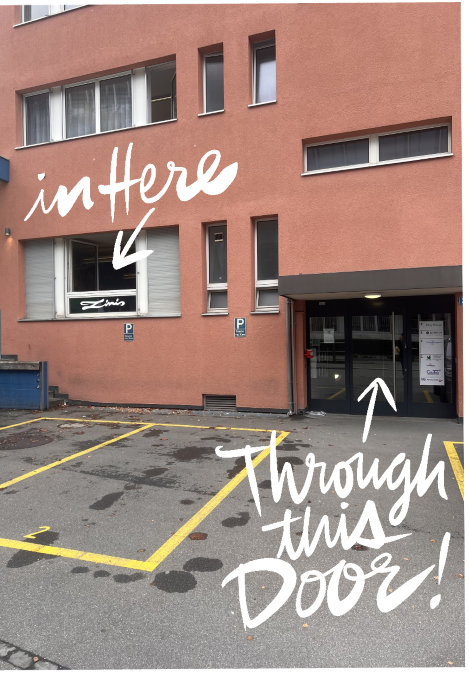
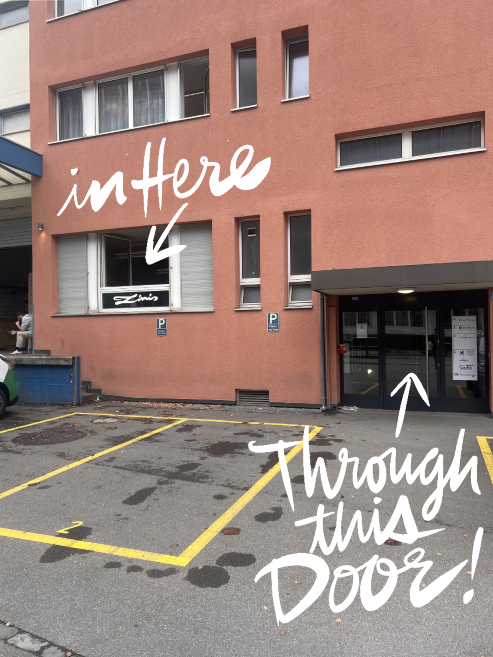
where mobile 2.

diff --git a/where_mobile.html b/where_mobile.html
@@ -6,7 +6,14 @@
     <link rel="stylesheet" href="style/stylesheet.css">
 </head>
 <body>
-<img src="fragments/where1.png"  width="1061" class="center" alt="">
+<img src="fragments/zinis.png"  width="1061" class="center" alt="">
+<br>
+<br>
+<br>
+<br>
+<br>
+<img src="fragments/where1.png"  width="625" class="center" alt="">
+<br>
 <img src="fragments/where2.png"  width="625" class="center" alt="">
 <br>
 <img src="fragments/where3.png"  width="625" class="center" alt="">
